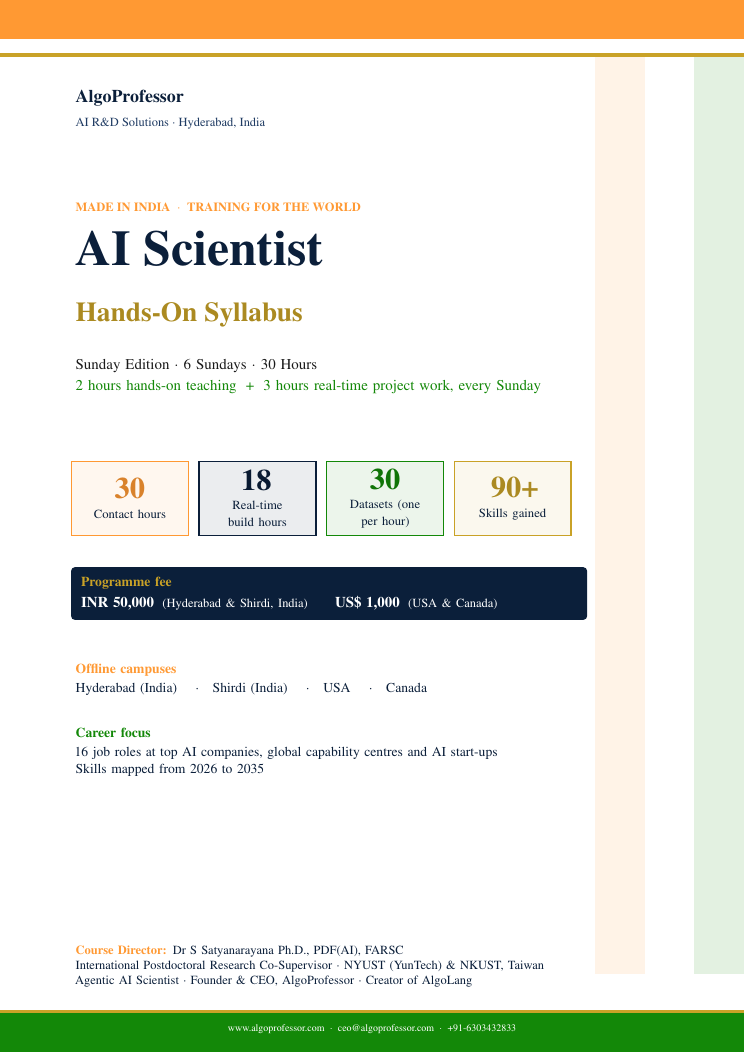
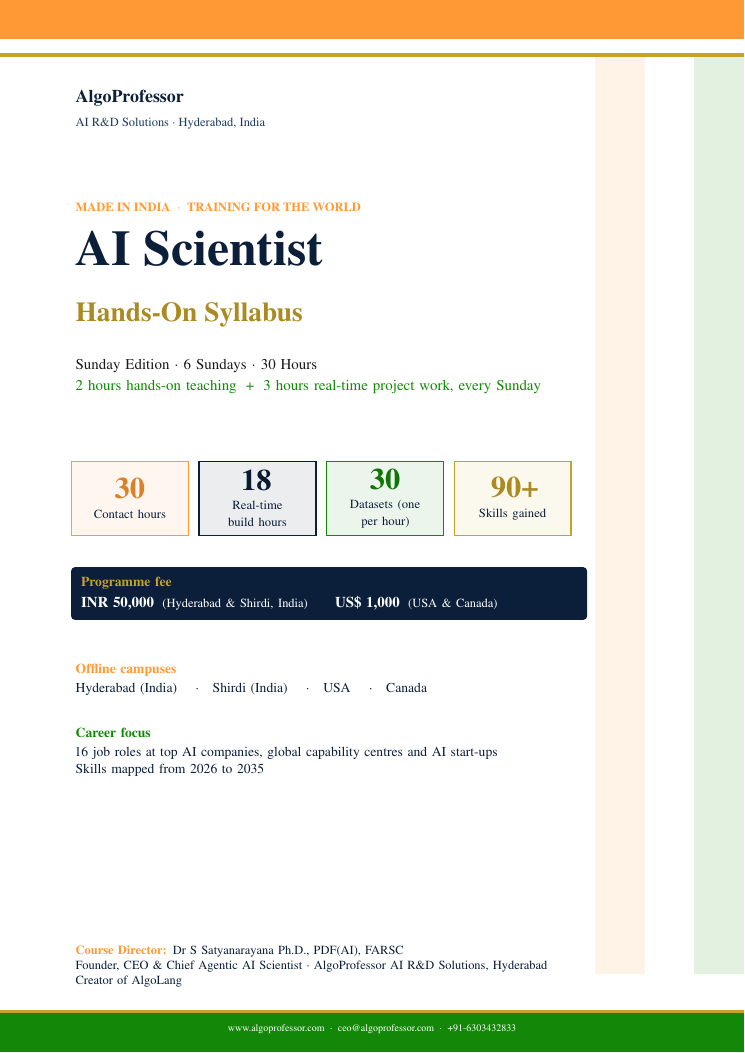
Use AlgoProfessor-only branding for the course director
Claude-Session: https://claude.ai/code/session_01NKQJ5MU7P1L3PdgQXTxEt4

Changed region(s): [[0.0926, 0.9117, 0.7409, 0.9421]]

diff --git a/syllabus/AlgoProfessor_AI_Scientist_Syllabus.tex b/syllabus/AlgoProfessor_AI_Scientist_Syllabus.tex
@@ -148,8 +148,8 @@
     Skills mapped from 2026 to 2035};
   \node[anchor=south west,text=navy,font=\sffamily\small,align=left,text width=14cm] at ($(current page.south west)+(2,1.7)$)
    {\textbf{\color{saffron}Course Director:} Dr S Satyanarayana Ph.D., PDF(AI), FARSC\\
-    International Postdoctoral Research Co-Supervisor $\cdot$ NYUST (YunTech) \& NKUST, Taiwan\\
-    Agentic AI Scientist $\cdot$ Founder \& CEO, AlgoProfessor $\cdot$ Creator of AlgoLang};
+    Founder, CEO \& Chief Agentic AI Scientist $\cdot$ AlgoProfessor AI R\&D Solutions, Hyderabad\\
+    Creator of AlgoLang};
   \node[anchor=south,text=white,font=\sffamily\scriptsize] at ($(current page.south)+(0,0.4)$) {www.algoprofessor.com \;$\cdot$\; ceo@algoprofessor.com \;$\cdot$\; +91-6303432833};
 \end{tikzpicture}
 \null\newpage

diff --git a/README.md b/README.md
@@ -286,9 +286,9 @@ git push origin sunday-2
 ---
 
 ### Course Director
-**Dr S Satyanarayana Ph.D., PDF(AI), FARSC**
-International Postdoctoral Research Co-Supervisor · NYUST (YunTech) & NKUST, Taiwan
-Agentic AI Scientist · Founder & CEO, AlgoProfessor · Creator of AlgoLang
+**Dr S Satyanarayana Ph.D., PDF(AI), FARSC**  
+Founder, CEO & Chief Agentic AI Scientist · AlgoProfessor AI R&D Solutions, Hyderabad  
+Creator of AlgoLang
 
 ### Build the syllabus PDF
 ```bash
